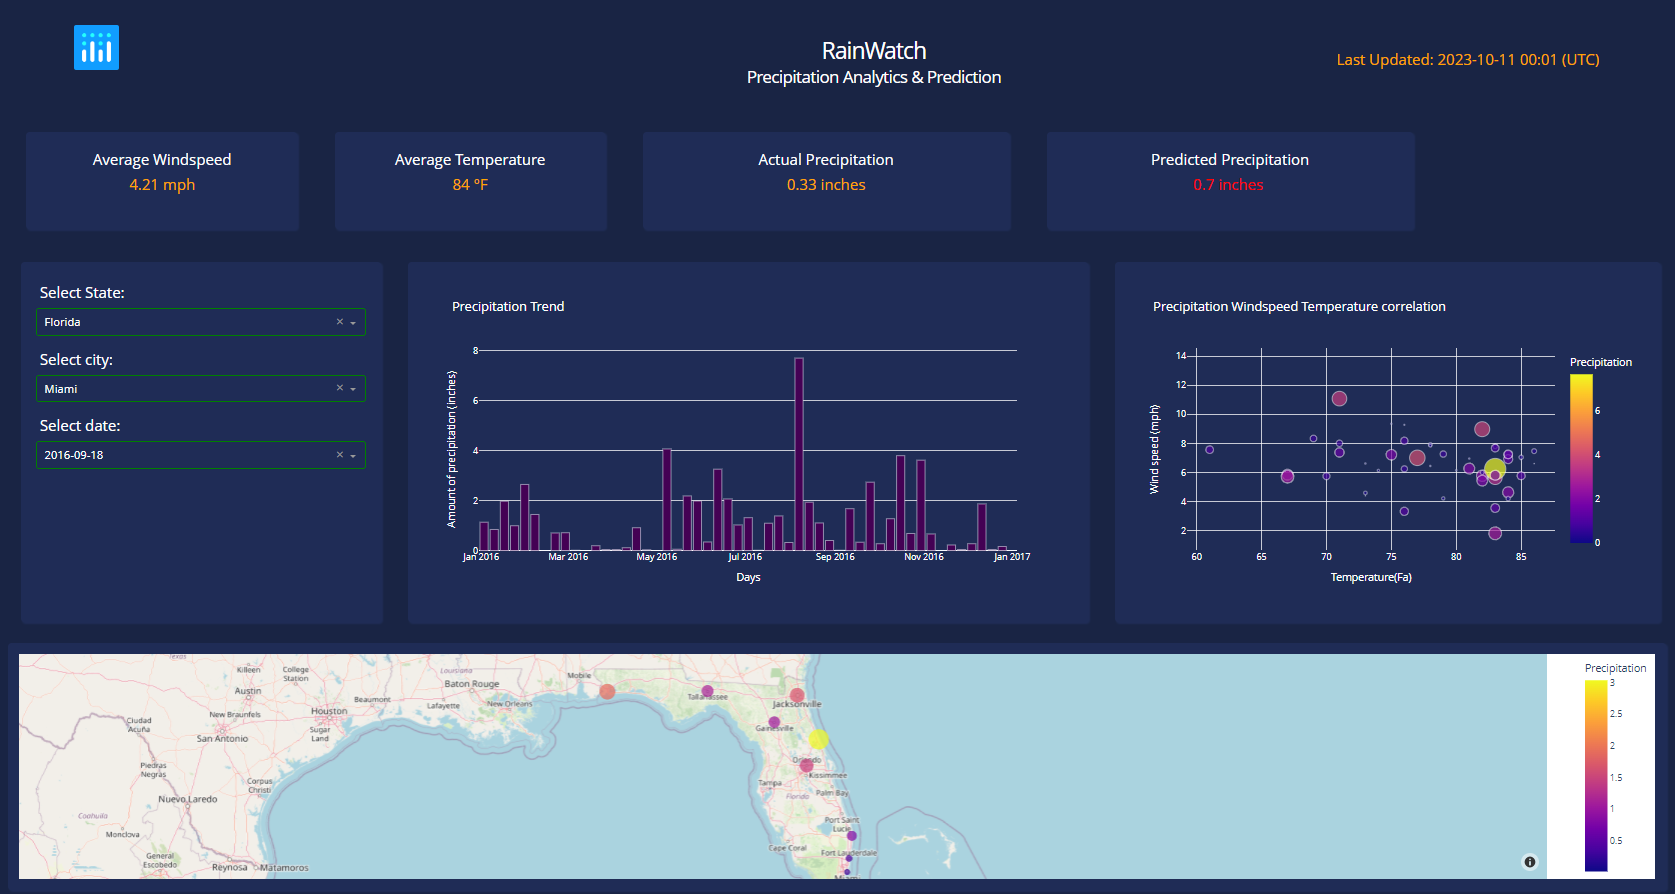
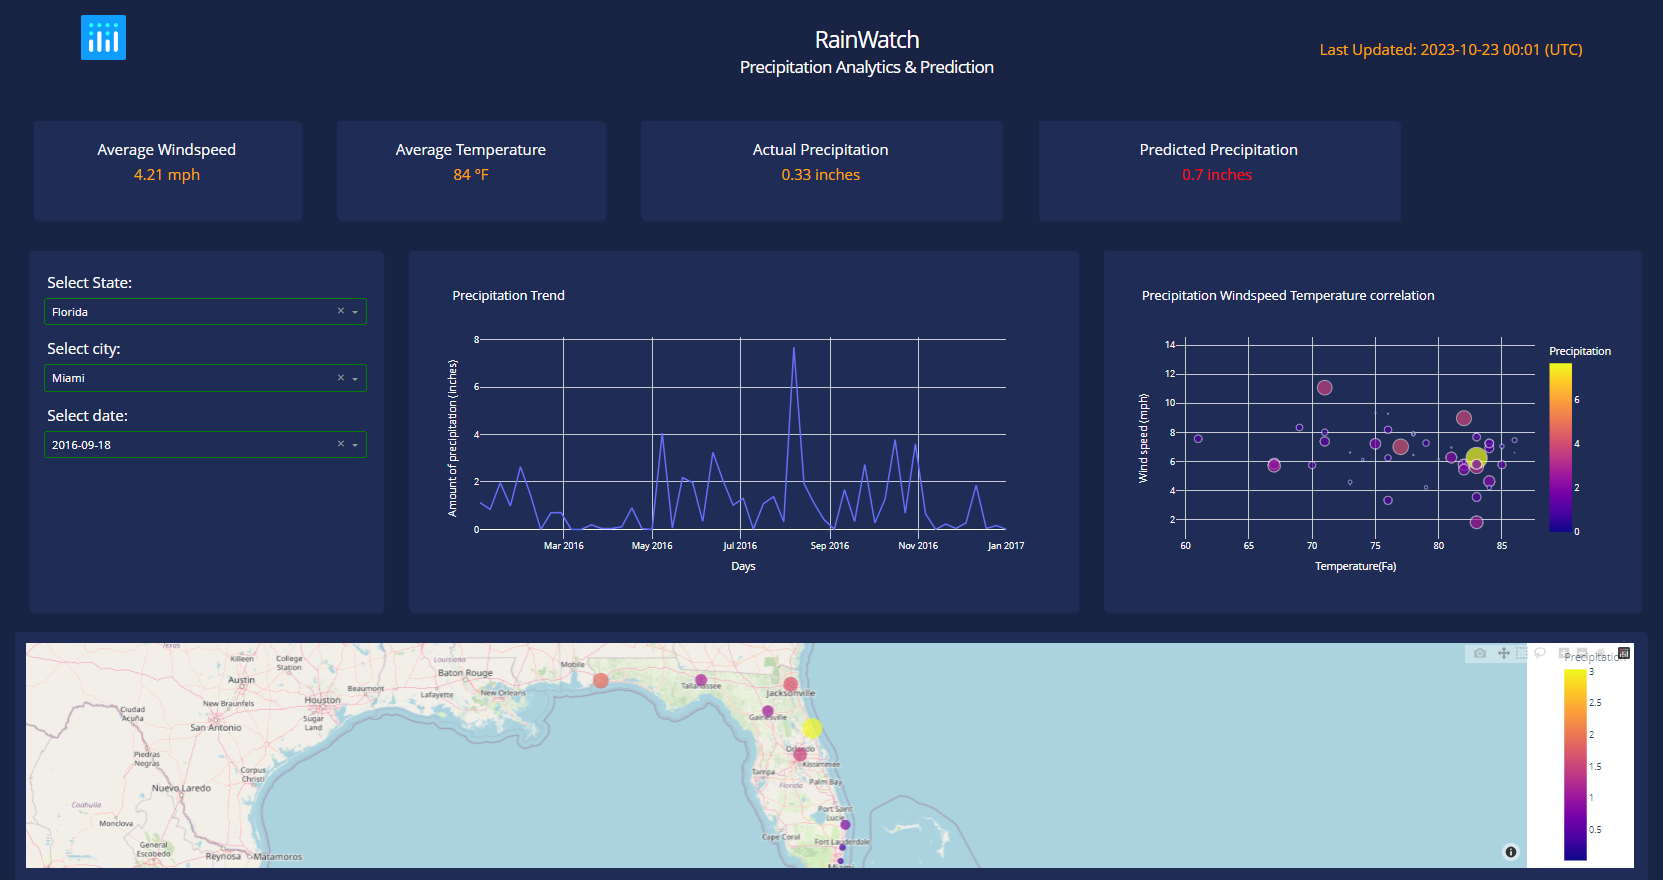
update

diff --git a/my_app.py b/my_app.py
@@ -347,7 +347,7 @@ def update_graph(cities):
 
 def update_graph(cities):
     df_maps = df_map.loc[(df_map['StationCity']==cities)]  
-    fig = px.bar(df_maps, x= "Date.Full", y="Precipitation",  color_discrete_sequence=px.colors.sequential.Viridis, title='Precipitation Trend')
+    fig = px.line(df_maps, x= "Date.Full", y="Precipitation",   title='Precipitation Trend')
     fig.update_layout(font_color="white", bargap=0.2,yaxis_title="Amount of precipitation (inches)",xaxis_title="Days" , paper_bgcolor="rgba(0,0,0,0)", plot_bgcolor="rgba(0,0,0,0)" )
     return fig
 
